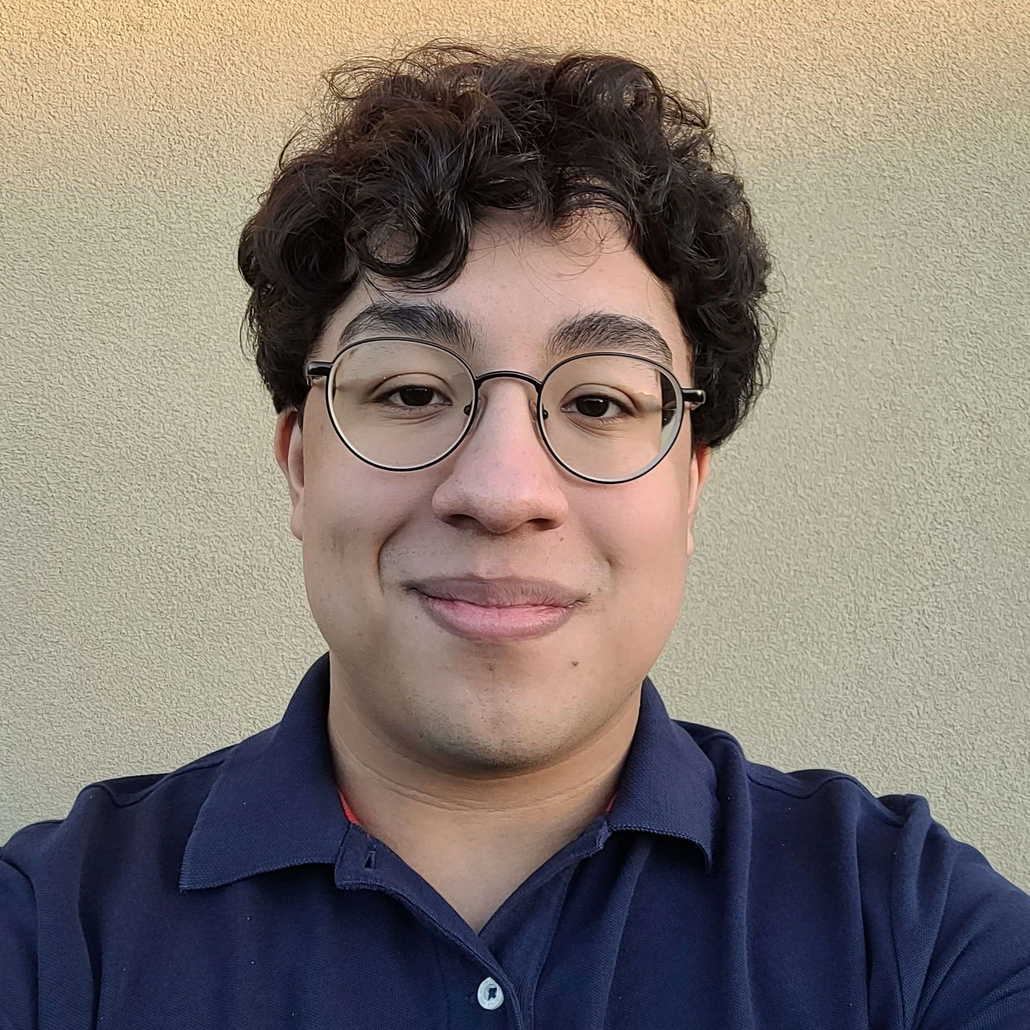
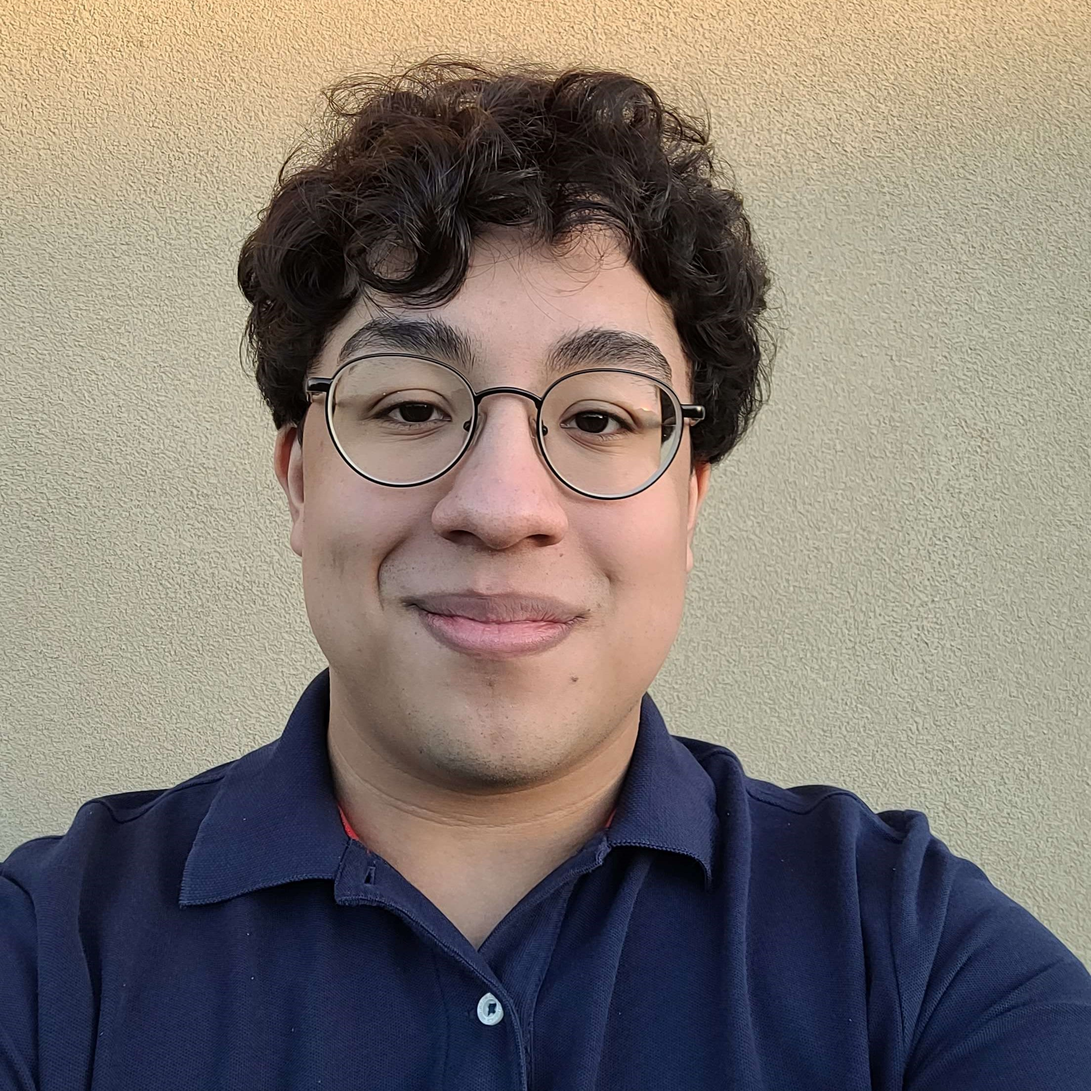
Added member photos

diff --git a/people.html b/people.html
@@ -181,7 +181,7 @@
             </div>
 
             <div id="joey" data-aos="zoom-in-up" class="member">
-                <img src="images/people/miutrgv_default.svg" />
+                <img src="images/people/joey_cruz.jpg" />
                 <div class="member-info">
                     <h5>Joey Cruz</h5>
                     <p><strong>Undergraduate Student</strong></p>
